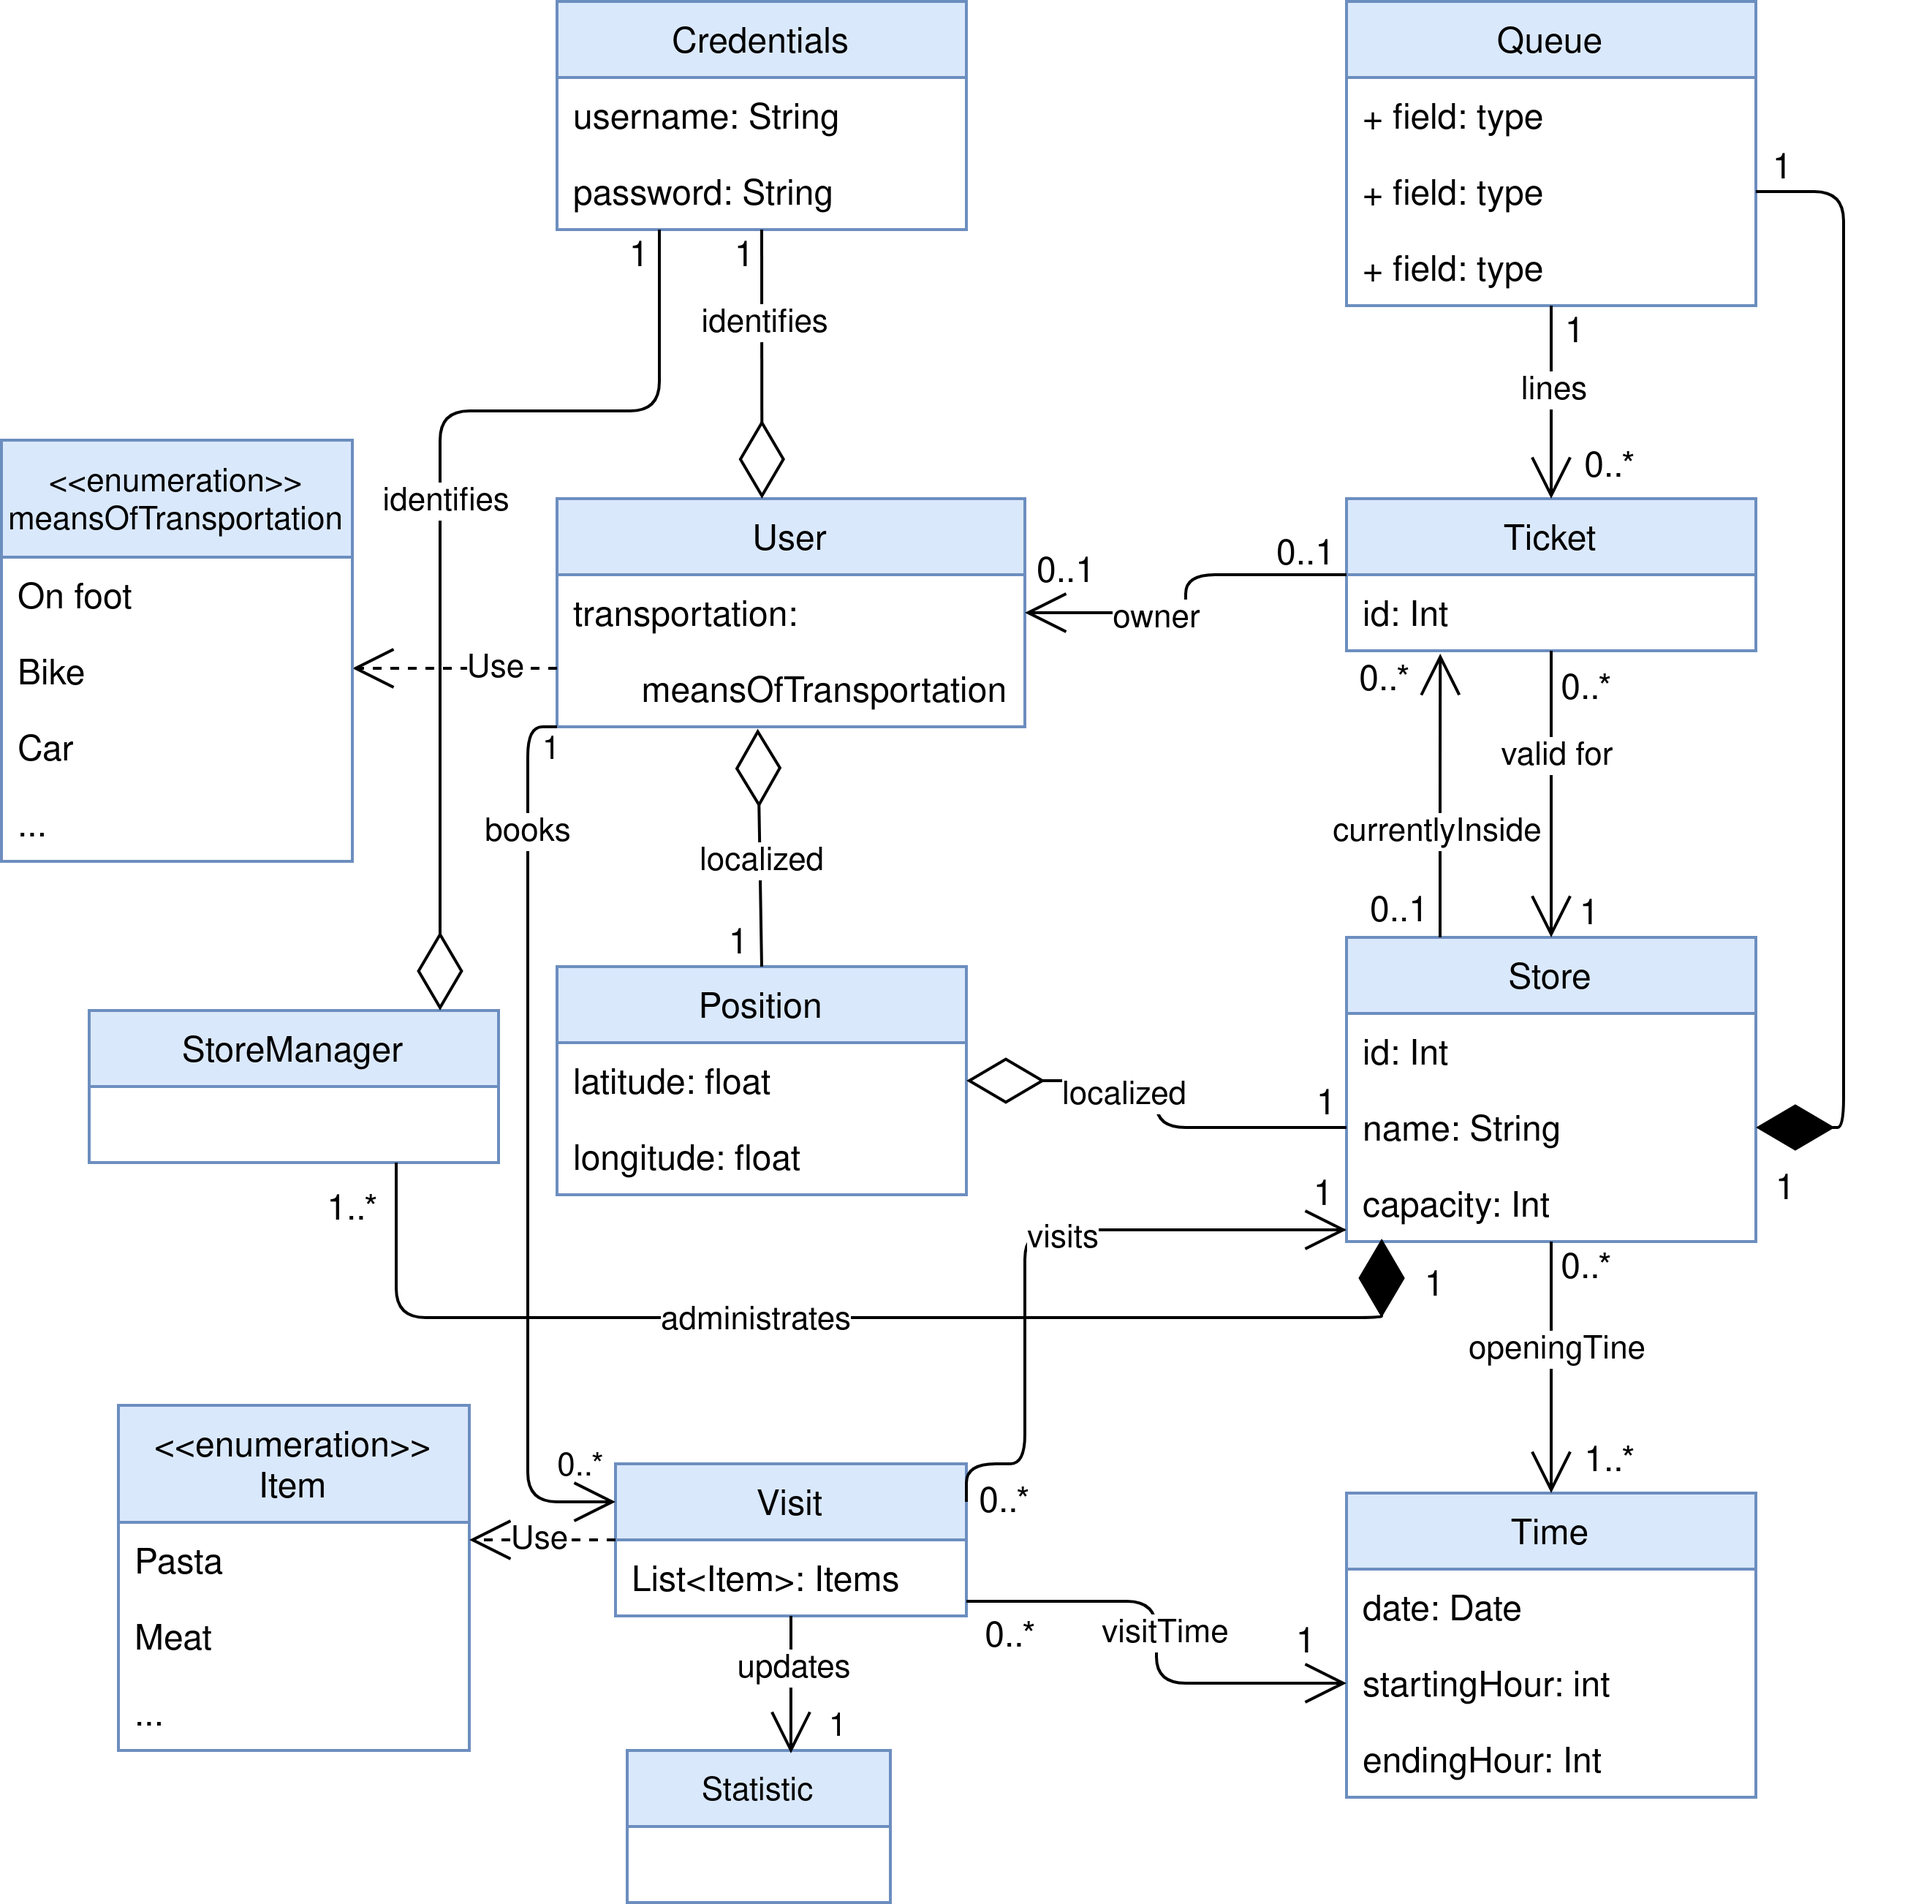
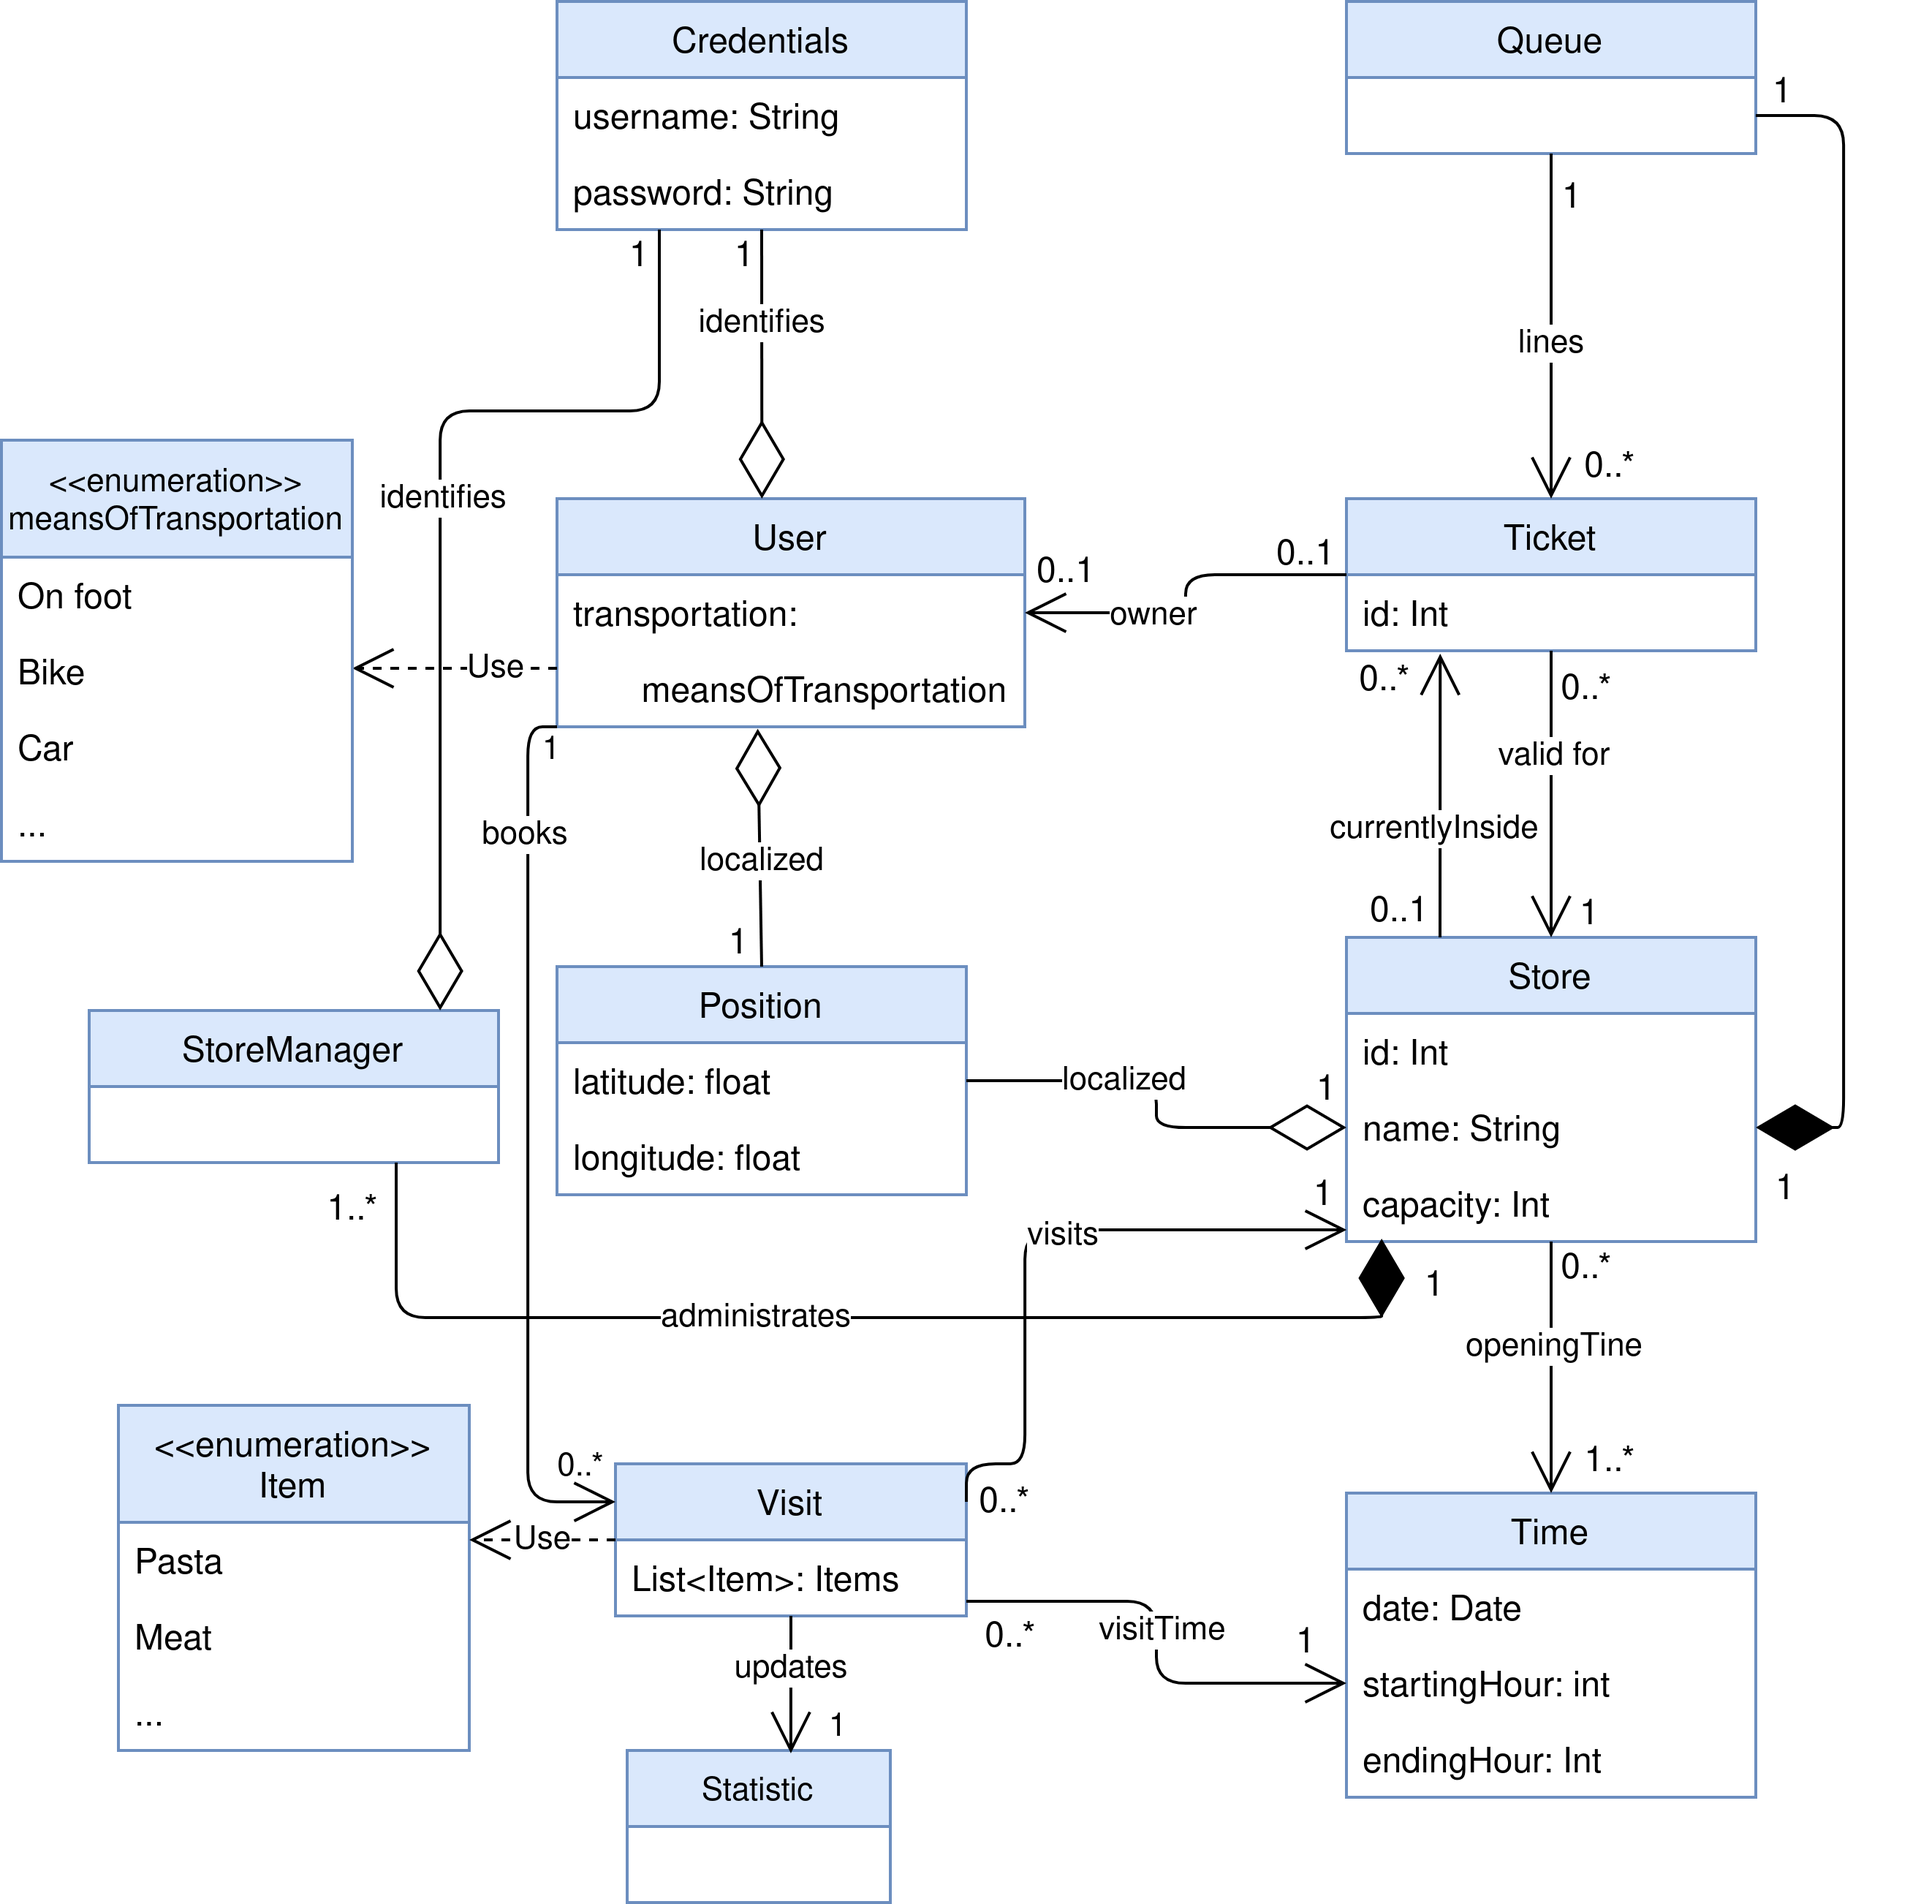
UML model fix + minor changes

diff --git a/DD/DD.tex b/DD/DD.tex
@@ -178,10 +178,15 @@
 			\end{tabular}
 						
 			
-		\subsubsection{Revision History}
+		%\subsubsection{Revision History}
 		
 		
 		\subsubsection{Reference Documents}
+		\begin{itemize}
+			\item R\&DD Assignment A.Y. 2020-2021;
+			\item Software Engineering 2 course material - Politecnico di Milano 2020-2021;
+			\item Requirement Analysis and Specification Document - CLup.
+		\end{itemize}
 		
 		
 		\subsubsection{Document Structure}
